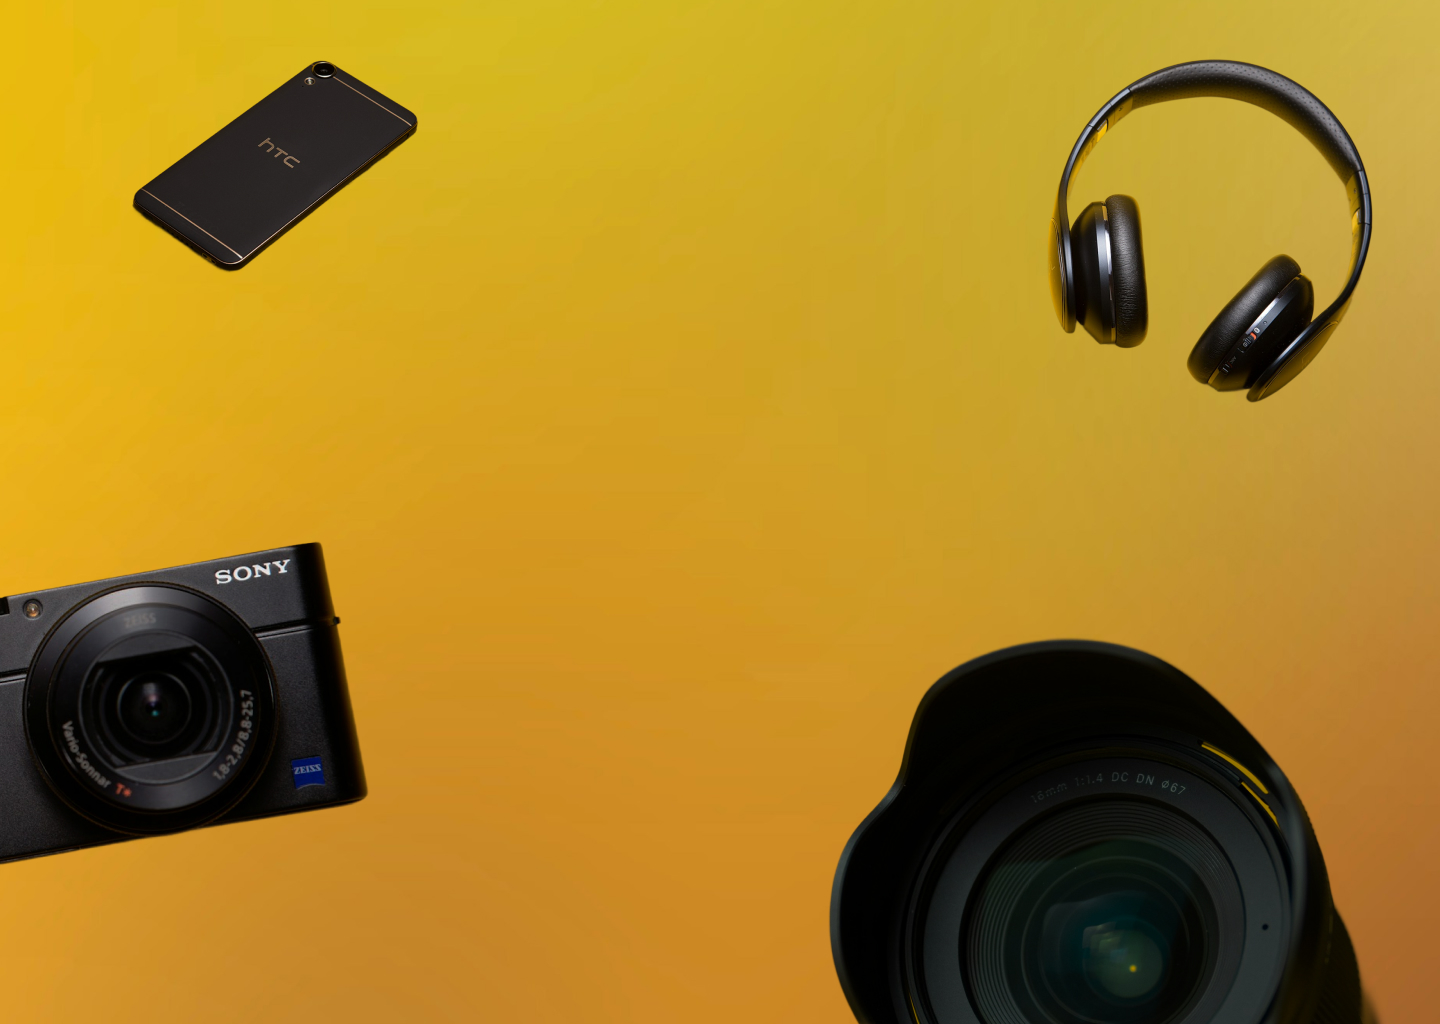
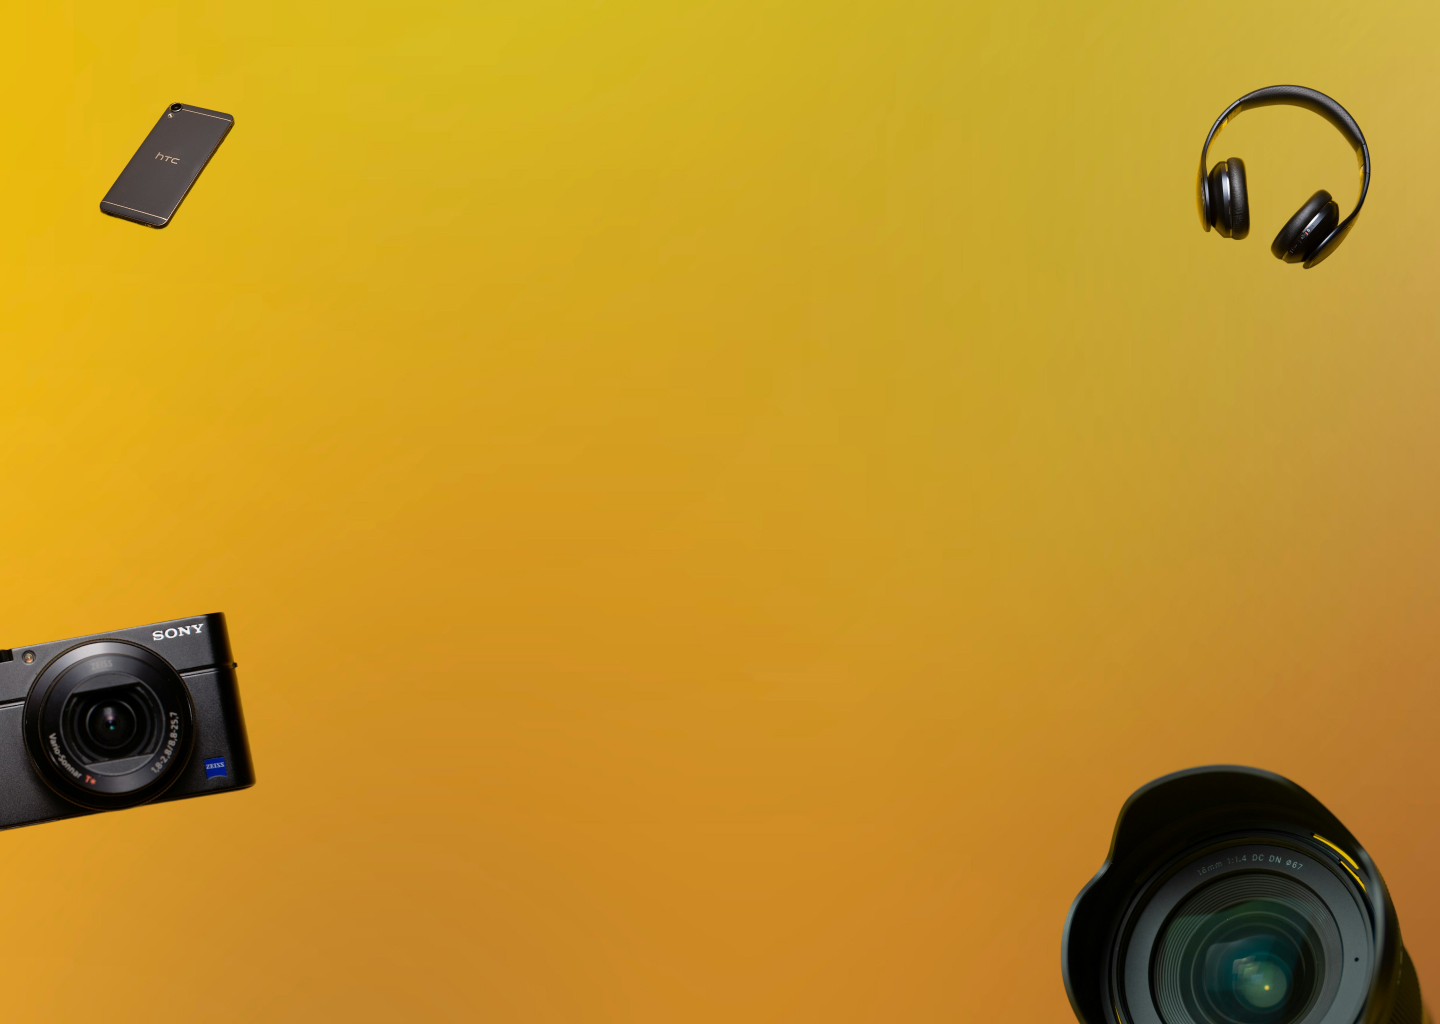
Small variable name changes
- Changed naming of variables according to correct span of sizes

- Experimented more with different background images

diff --git a/src/css/responsiveness.css b/src/css/responsiveness.css
@@ -1,3 +1,9 @@
+@media (max-width: 1650px) {
+    .hero-background-image {
+        background-image: url(../../assets/images/desktop/desktop-laptop-background.jpg);
+    }
+}
+
 
 
 @media (max-width: 1200px) {
@@ -196,10 +202,10 @@
         width: 175px;
         align-items: center;
         background-color: var(--color-tertiary);
-        box-shadow: var(--inner-shadow-small);
+        box-shadow: var(--inner-shadow-medium);
         gap: 20px;
         padding: 5px;
-        box-shadow: var(--inner-shadow-xtrasmall);
+        box-shadow: var(--inner-shadow-small);
     }
 
     .all-products-add-to-cart-btn-mobile {
@@ -257,7 +263,7 @@
         height: 100%;
         padding: 0px 25px 25px 25px;
         gap: 10px;
-        box-shadow: var(--inner-shadow-small);
+        box-shadow: var(--inner-shadow-medium);
         align-items: center;
         text-align: center;
     }
@@ -601,7 +607,7 @@
         width: 125px;
         gap: 12px;
         padding: 5px;
-        box-shadow: var(--inner-shadow-xtrasmall);
+        box-shadow: var(--inner-shadow-medium);
     }
 
     .all-products-container h1 {
@@ -624,7 +630,7 @@
         display: flex;
         padding: var(--button-padding-xtrasmall);
         font-size: var(--button-text-xtrasmall);
-        box-shadow: var(--outer-shadow-xtrasmall);
+        box-shadow: var(--outer-shadow-small);
     }
 
 
@@ -653,7 +659,7 @@
     .share-btn {
         width: 30px;
         height: 30px;
-        box-shadow: var(--outer-shadow-xtrasmall);
+        box-shadow: var(--outer-shadow-small);
     }
 
     .share-btn i {
@@ -724,12 +730,12 @@
     .register-form-container,
     .login-form-container {
         padding: 30px 20px 20px 20px;
-        box-shadow: var(--inner-shadow-small);
+        box-shadow: var(--inner-shadow-medium);
     }
 
     .profile-content-container {
         padding: 20px 10px 20px 10px;
-        box-shadow: var(--inner-shadow-small);
+        box-shadow: var(--inner-shadow-medium);
     }
 
     .profile-title-span,

diff --git a/src/css/components.css b/src/css/components.css
@@ -169,7 +169,7 @@ nav a:hover {
     padding: 15px;
     border: 15px solid var(--color-secondary);
     background-color: var(--color-primary);
-    box-shadow: var(--inner-shadow-small), var(--outer-shadow-large);
+    box-shadow: var(--inner-shadow-small), var(--outer-shadow-medium);
 }
 
 .close-btn {
@@ -310,7 +310,7 @@ nav a:hover {
     align-items: center;
     justify-content: center;
     background-color: var(--color-tertiary);
-    box-shadow: var(--inner-shadow-small);
+    box-shadow: var(--inner-shadow-medium);
     gap: 1rem;
 }
 
@@ -362,13 +362,13 @@ nav a:hover {
 .add-to-cart-btn-xtrasmall {
     padding: var(--button-padding-xtrasmall);
     font-size: var(--button-text-xtrasmall);
-    box-shadow: var(--outer-shadow-xtrasmall);
+    box-shadow: var(--outer-shadow-small);
 }
 
 .add-to-cart-btn-small {
     padding: var(--button-padding-small);
     font-size: var(--button-text-small);
-    box-shadow: var(--outer-shadow-xtrasmall);
+    box-shadow: var(--outer-shadow-small);
 }
 
 .carousel-add-to-cart-btn:hover {
@@ -380,7 +380,7 @@ nav a:hover {
 .all-products-add-to-cart-btn {
     padding: var(--button-padding-medium);
     font-size: var(--button-text-medium);
-    box-shadow: var(--outer-shadow-small);
+    box-shadow: var(--outer-shadow-medium);
 }
 
 .add-to-cart-btn-large,
@@ -388,7 +388,7 @@ nav a:hover {
 .see-all-btn {
     padding: var(--button-padding-large);
     font-size: var(--button-text-large);
-    box-shadow: var(--outer-shadow-small);
+    box-shadow: var(--outer-shadow-medium);
 }
 
 .share-btn {
@@ -402,7 +402,7 @@ nav a:hover {
     border-radius: 5px;
     height: 45px;
     width: 45px;
-    box-shadow: var(--outer-shadow-small);
+    box-shadow: var(--outer-shadow-medium);
     transition: 0.3s ease;
 }
 
@@ -425,7 +425,7 @@ nav a:hover {
     border-radius: 50px;
     border: none;
     cursor: pointer;
-    box-shadow: var(--outer-shadow-xtrasmall);
+    box-shadow: var(--outer-shadow-small);
     transition: 0.3s ease;
 }
 
@@ -520,7 +520,7 @@ nav a:hover {
     border-radius: 50px;
     border: none;
     cursor: pointer;
-    box-shadow: var(--outer-shadow-xtrasmall);
+    box-shadow: var(--outer-shadow-small);
     transition: 0.3s ease;
 }
 

diff --git a/src/css/variables.css b/src/css/variables.css
@@ -7,16 +7,17 @@
   --color-red: #8A0000;
   --color-white: #ffffff;
   --color-grey: #f5f5f5;
+  --color-grey2: #4D4D4D;
 
   /* --- FONT STACK --- */
   --font-main: 'Segoe UI', sans-serif;
 
   /* --- SHADOWS --- */
-  --inner-shadow-xtrasmall: inset 2px 2px 2px 0px rgba(0, 0, 0, 0.5);
-  --inner-shadow-small: inset 4px 4px 4px 0px rgba(0, 0, 0, 0.5);
+  --inner-shadow-small: inset 2px 2px 2px 0px rgba(0, 0, 0, 0.5);
+  --inner-shadow-medium: inset 4px 4px 4px 0px rgba(0, 0, 0, 0.5);
   --inner-shadow-large: inset 8px 8px 8px 0px rgba(0, 0, 0, 0.5);
-  --outer-shadow-xtrasmall: 2px 2px 2px 0px rgba(0, 0, 0, 0.5);
-  --outer-shadow-small: 4px 4px 4px 0px rgba(0, 0, 0, 0.5);
+  --outer-shadow-small: 2px 2px 2px 0px rgba(0, 0, 0, 0.5);
+  --outer-shadow-medium: 4px 4px 4px 0px rgba(0, 0, 0, 0.5);
   --outer-shadow-large: 8px 8px 8px 0px rgba(0, 0, 0, 0.5);
 
   /* --- BUTTONS --- */

diff --git a/src/css/layouts.css b/src/css/layouts.css
@@ -113,7 +113,7 @@ main {
     width: 300px;
     background-color: var(--color-tertiary);
     object-fit: contain;
-    box-shadow: var(--inner-shadow-small);
+    box-shadow: var(--inner-shadow-medium);
 }
 
 .desc-container-top {
@@ -309,7 +309,7 @@ main {
     padding-top: 5px;
     background-color: var(--color-tertiary);
     width: 100%;
-    box-shadow: var(--inner-shadow-small);
+    box-shadow: var(--inner-shadow-medium);
 }
 
 .cart-product-side-container h2 {
@@ -352,7 +352,7 @@ main {
     border-radius: 5px;
     height: 25px;
     width: 30px;
-    box-shadow: var(--outer-shadow-xtrasmall);
+    box-shadow: var(--outer-shadow-small);
     transition: 0.3s ease;
 }
 

diff --git a/src/css/typography.css b/src/css/typography.css
@@ -28,7 +28,7 @@ input {
     border-radius: 5px;
     font-size: 15px;
     padding: 10px;
-    box-shadow: var(--inner-shadow-xtrasmall), var(--outer-shadow-xtrasmall);
+    box-shadow: var(--inner-shadow-small), var(--outer-shadow-small);
     border: 1px solid #4D4D4D;
 }
 